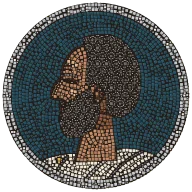
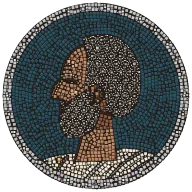
Portrait looks: Dionysius in gold, Thearides black-haired, Daphnaeus and Demarchus told apart
Claude-Session: https://claude.ai/code/session_01RCkKTQZjUTP9ixfgxhfpaQ

Changed region(s): [[0.0, 0.0625, 0.9688, 1.0], [0.7188, 0.0625, 0.75, 0.0938]]

diff --git a/docs/handoff.md b/docs/handoff.md
@@ -9,7 +9,7 @@ The thread that finishes a session writes this, not Jacob. Rewrite it at the end
 - **The war's events:** peace envoys get the treaty, a victor's welcome the trophy.
 - **Waiting:** Dion, Aristides and Magon's son have looks but are not in the game yet (`docs/later.md`).
 - **Checks:** `npm test` 200 of 200; typecheck clean; 100 seeds: 0 crashes, 0 broken states, 17 tyrannies.
-- **Questions for Jacob (from Duet's notes, not changed):** Dionysius' cloak is Punic purple, Carthage's colour (cheap fix: blood red or gold); Theste's veil and Doris' hair bag are lilac; Daphnaeus and Demarchus have nearly the same face; Thearides is brown-haired beside two black-haired brothers.
+- **Looks fixed (Duet's notes, Jacob delegated the call):** Dionysius' cloak is gold, not Carthage's purple; Thearides has black hair like his brothers; Daphnaeus wears a general's helmet and Demarchus has white hair, so the two are told apart. Only those four pictures changed (the other 20 re-draw byte for byte). Still lilac, not changed: Theste's veil and Doris' hair bag.
 
 ## Playtest bot (2026-11-27)
 **Built, not merged.** Jacob: "Run the playtest bot". A headless bot, `npm run playtest` (`scripts/playtest.ts`, tables and charts in `scripts/playtest-report.ts`), plays every setup on main with seven kinds of player and a one-action sweep: 23,520 games in about 10 minutes on 4 cores, fixed seeds, every game replayed to check it comes out the same. Report: `docs/playtests/2026-11-27-playtest-bot/report.md`; tables: `results.md` beside it.

diff --git a/docs/decisions.md b/docs/decisions.md
@@ -554,4 +554,4 @@ Dated log: decision, why. Newest at the bottom. If a chat and this file disagree
 ## 2026-11-27 (portraits and more art, thread 40)
 - **Done (Jacob: "Why not add portraits and art"):** Carthage's council gets Duet's mosaic faces (PR #95 looks, `ui/art/carthage-looks.json`), season cards a season picture, two war events their own picture.
 - **Decided (small, here):** mosaics, not the flat medallions, for Carthage's men, because every face in the game is a mosaic coin; this settles part 1's open question. Carthage's looks live in their own file so the 24-person cast file and the census faces are untouched. Duet's suggested fixes to the existing 24 are listed for Jacob, not made (his taste).
-
+- **Decided (delegated small taste call, thread 40):** four looks changed in `ui/art/portrait-looks.json`: Dionysius' cloak gold (purple is Carthage's colour), Thearides black-haired like his brothers, Daphnaeus in a general's helmet, Demarchus white-haired. Invention, as before.
